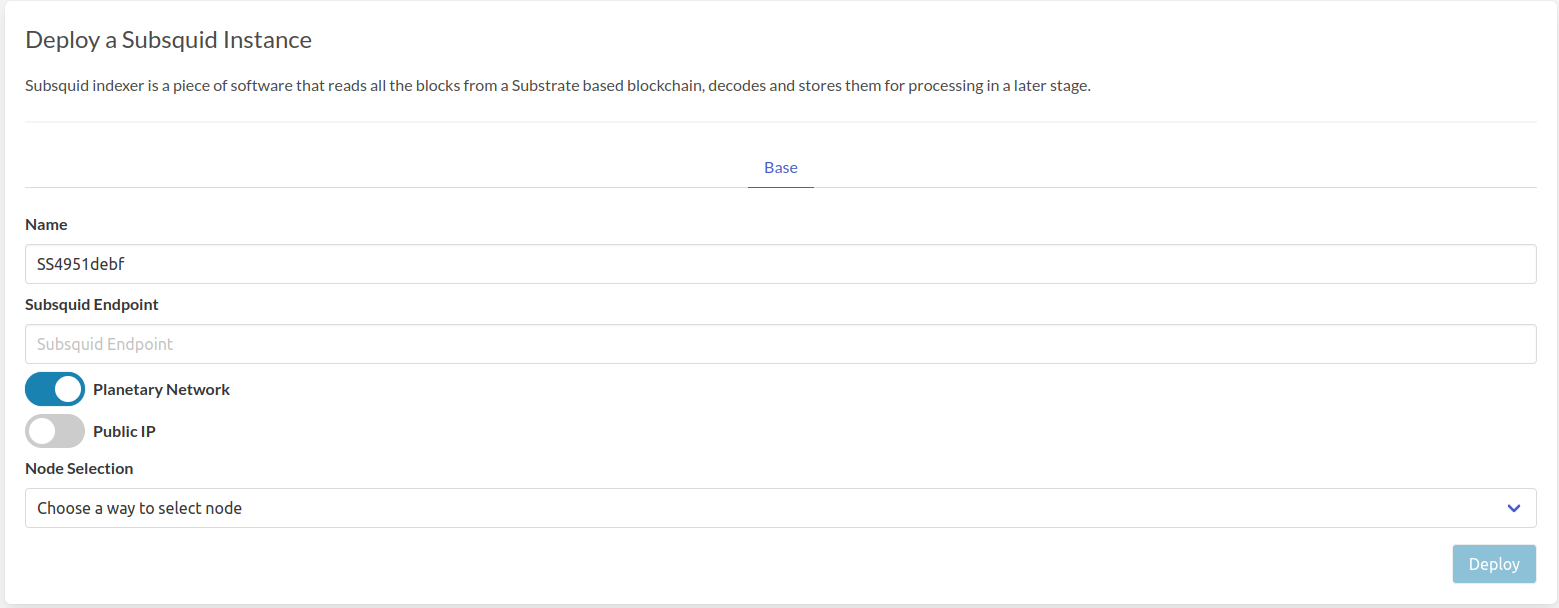
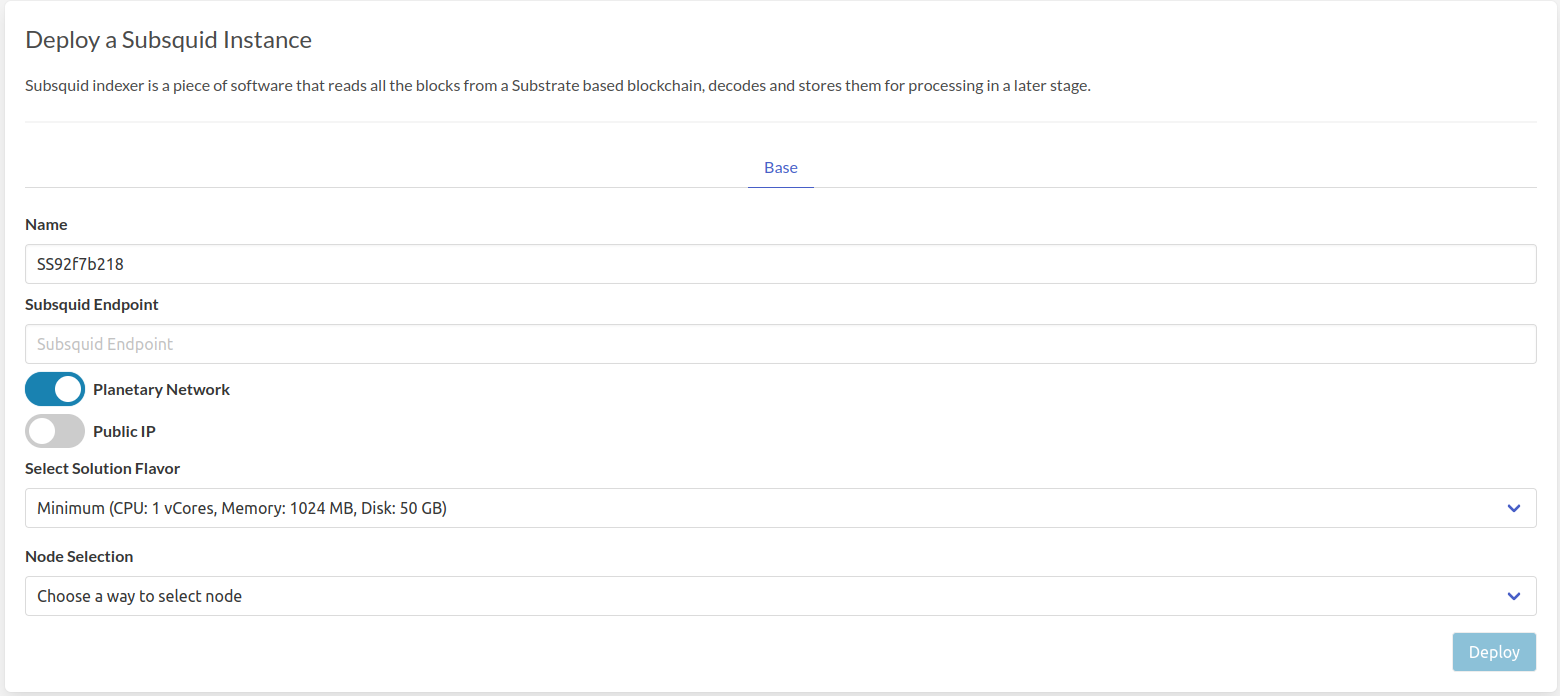
Updated documentation

diff --git a/wiki/weblets/weblets_subsquid.md b/wiki/weblets/weblets_subsquid.md
@@ -17,6 +17,12 @@ __Process__
 - `Public IPv6` flag gives the virtual machine a Public IPv6
 
 - `Planetary Network` to connect the Virtual Machine to Planetary network
+
+- Select a capacity package:
+    - **Minimum**: { cpu: 1, memory: 1024 , diskSize: 50 }
+    - **Standard**: { cpu: 2, memory: 1024 * 2, diskSize: 100 }
+    - **Recommended**: { cpu: 4, memory: 1024 * 4, diskSize: 250 }
+    - Or choose a **Custom** plan
   
 - Choose a node to deploy your Presearch instance on.
 
